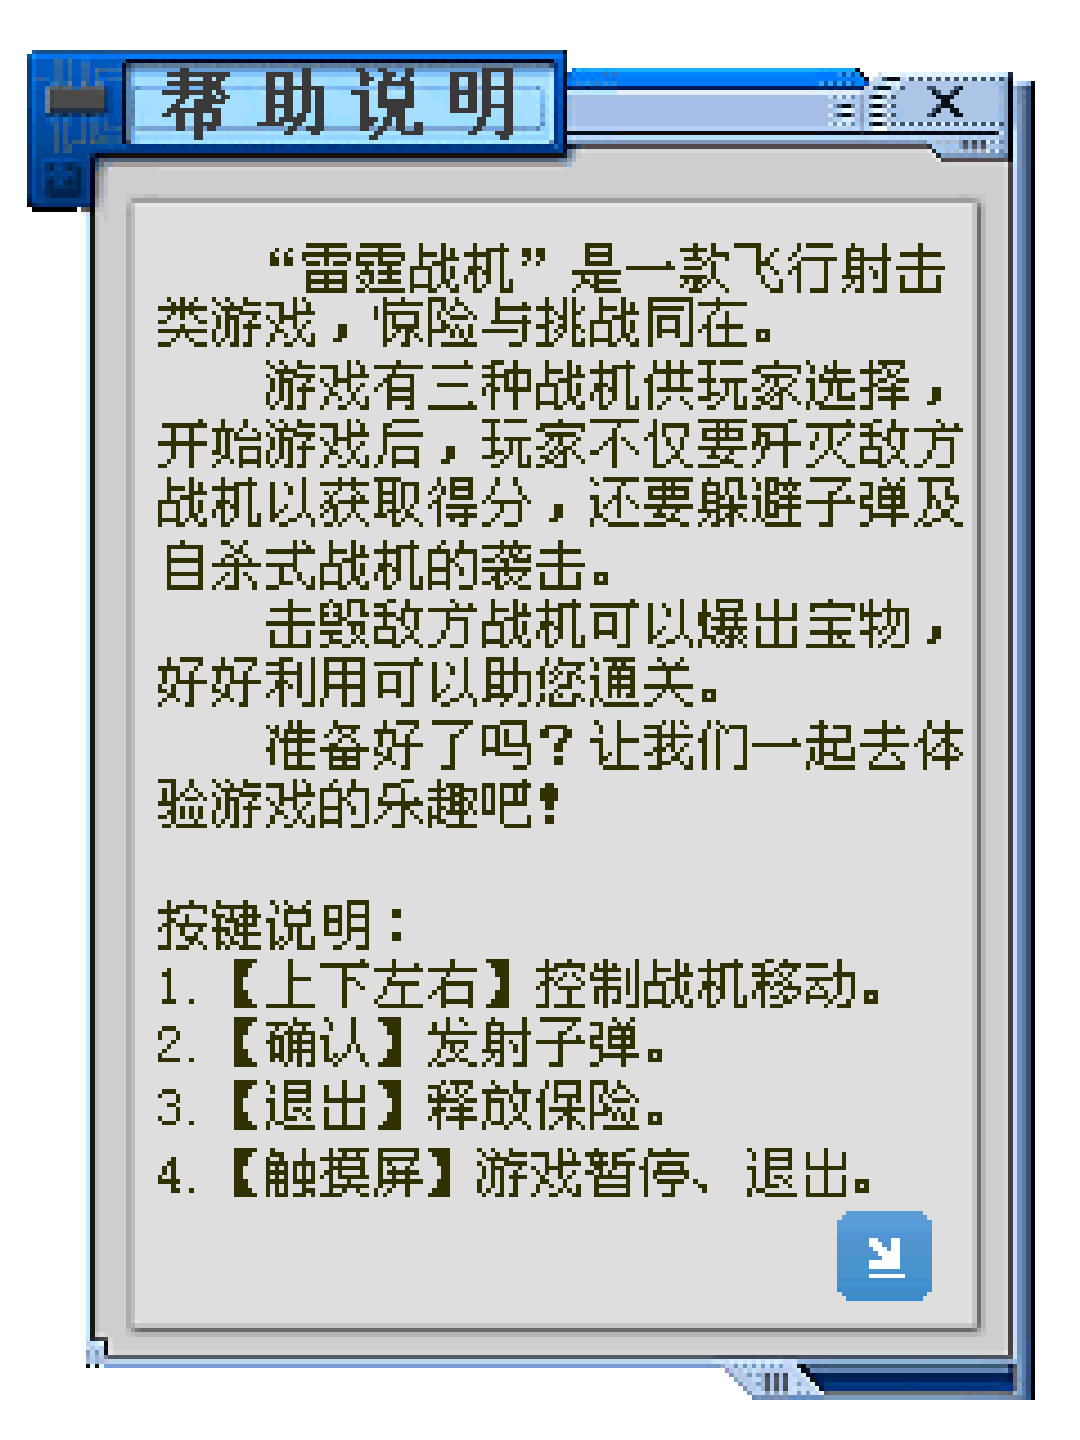
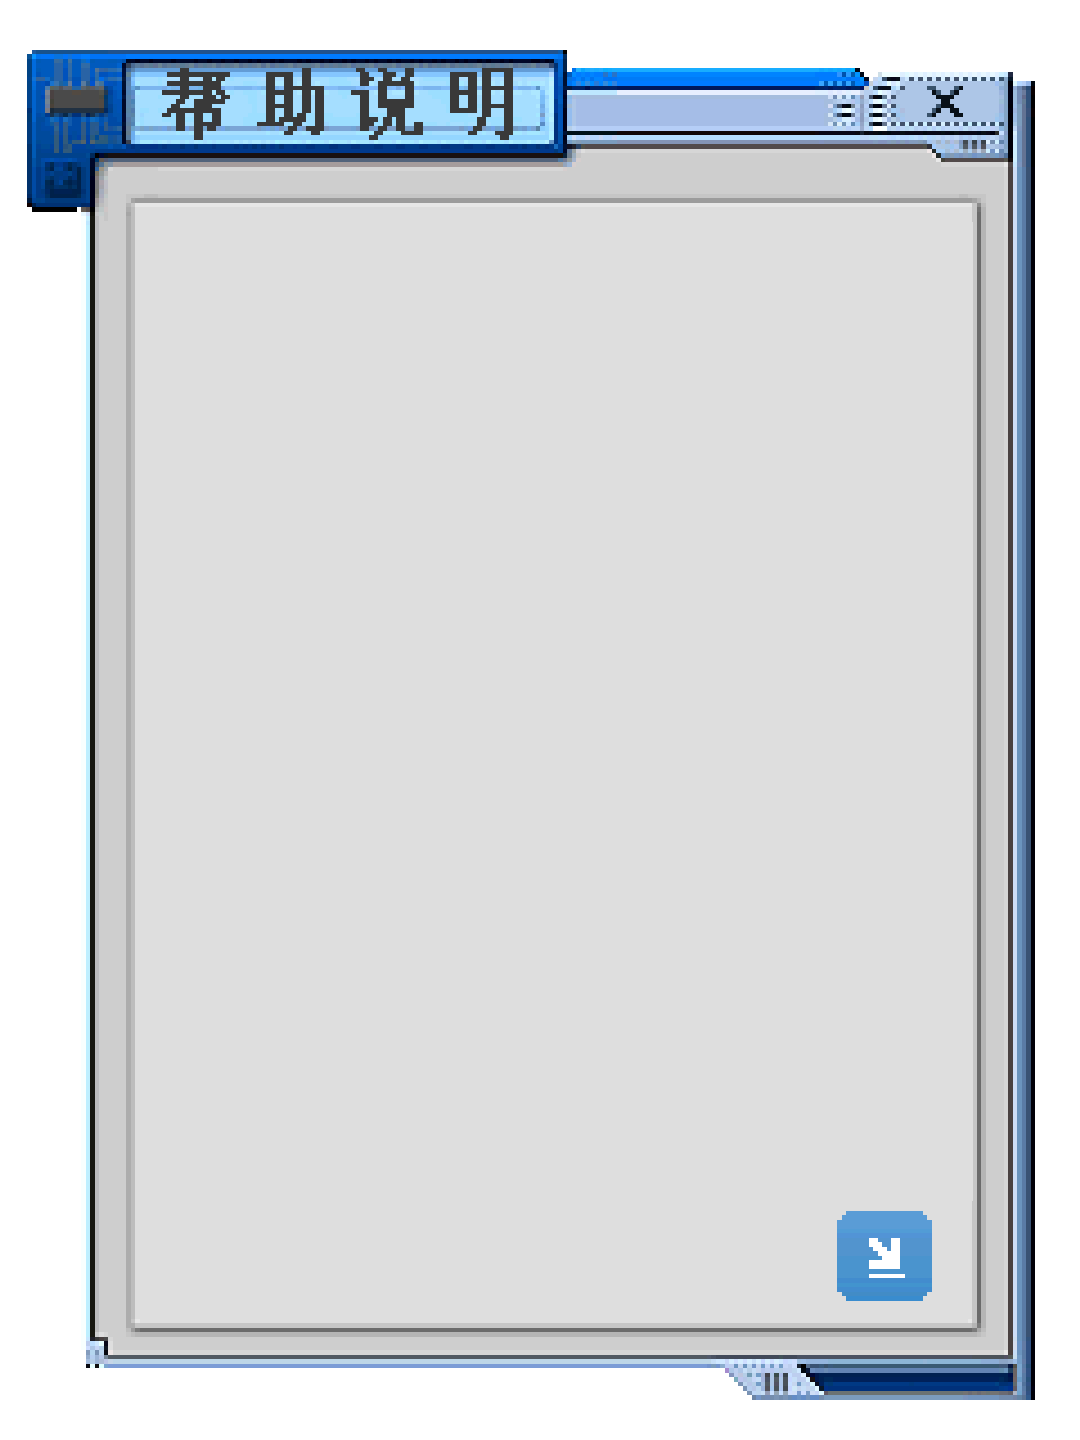
设置样式绘制完成

diff --git a/app/src/main/java/com/flyfighter/menu/ConfigMenu.java b/app/src/main/java/com/flyfighter/menu/ConfigMenu.java
@@ -1,0 +1,137 @@
+package com.flyfighter.menu;
+
+import android.content.Context;
+import android.graphics.Rect;
+import android.util.AttributeSet;
+import android.view.Gravity;
+import android.view.ViewGroup;
+import android.widget.FrameLayout;
+import android.widget.ImageView;
+
+import com.flyfighter.res.RMS;
+import com.flyfighter.res.ResInit;
+import com.flyfighter.view.MainWindow;
+
+public class ConfigMenu extends FrameLayout {
+
+    Context context;
+    private ImageView imgBg;
+    private ImageView ivDifficulty;
+    private ImageView ivSound;
+
+    //以原始图片1080p下的左上角的偏移值
+    private Rect[] clickRect = new Rect[]{
+            //音量小
+            new Rect(530, 195, 720, 300),
+            //音量大
+            new Rect(730, 195, 920, 300),
+            //音效开
+            new Rect(530, 325, 720, 430),
+            //音效开
+            new Rect(730, 325, 920, 430),
+            //音量大小
+            new Rect(590, 490, 885, 530),
+            //关闭
+            new Rect(430, 584, 650, 700),
+    };
+    private int offX;
+    private int offY;
+    private ImageView ivProgress;
+
+    public ConfigMenu(Context context) {
+        this(context, null);
+    }
+
+    public ConfigMenu(Context context, AttributeSet attrs) {
+        this(context, attrs, 0);
+    }
+
+    public ConfigMenu(Context context, AttributeSet attrs, int defStyleAttr) {
+        super(context, attrs, defStyleAttr);
+        init(context);
+    }
+
+    private void init(Context context) {
+        this.context = context;
+        ResInit.initConfigMenu(context);
+        initMenuBg();
+
+        initDifficultySwitch();
+        initSoundSwitch();
+        initSoundProgress();
+    }
+
+    private void initSoundProgress() {
+        LayoutParams lp = new LayoutParams(LayoutParams.WRAP_CONTENT, LayoutParams.WRAP_CONTENT);
+        ivProgress = new ImageView(context);
+        ivProgress.setScaleType(ImageView.ScaleType.FIT_XY);
+        ivProgress.setImageBitmap(ResInit.configImage[2]);
+        addView(ivProgress, lp);
+    }
+
+    private void initSoundSwitch() {
+        LayoutParams lp = new LayoutParams(LayoutParams.WRAP_CONTENT, LayoutParams.WRAP_CONTENT);
+        ivSound = new ImageView(context);
+        ivSound.setImageBitmap(ResInit.configImage[1]);
+        addView(ivSound, lp);
+    }
+
+    private void initDifficultySwitch() {
+        LayoutParams lp = new LayoutParams(LayoutParams.WRAP_CONTENT, LayoutParams.WRAP_CONTENT);
+        ivDifficulty = new ImageView(context);
+        ivDifficulty.setImageBitmap(ResInit.configImage[1]);
+        addView(ivDifficulty, lp);
+    }
+
+    private void initMenuBg() {
+        LayoutParams lp = new LayoutParams(LayoutParams.WRAP_CONTENT, LayoutParams.WRAP_CONTENT);
+        lp.gravity = Gravity.CENTER;
+        imgBg = new ImageView(context);
+        imgBg.setImageBitmap(ResInit.configImage[0]);
+        addView(imgBg, lp);
+    }
+
+
+    @Override
+    protected void onMeasure(int widthMeasureSpec, int heightMeasureSpec) {
+
+        imgBg.measure(MeasureSpec.UNSPECIFIED, MeasureSpec.UNSPECIFIED);
+        offX = (MainWindow.windowWidth - imgBg.getMeasuredWidth()) / 2;
+        offY = (MainWindow.windowHeight - imgBg.getMeasuredHeight()) / 2;
+
+        Rect rect = RMS.difficulty == 1 ? clickRect[1] : clickRect[0];
+        ivDifficulty.setLayoutParams(setPosition(rect, ivDifficulty.getLayoutParams()));
+
+        Rect rect1 = RMS.loadSound ? clickRect[2] : clickRect[3];
+        ivSound.setLayoutParams(setPosition(rect1, ivSound.getLayoutParams()));
+
+        ivProgress.setLayoutParams(setProgress(clickRect[4], ivProgress));
+        super.onMeasure(widthMeasureSpec, heightMeasureSpec);
+    }
+
+    private ViewGroup.LayoutParams setProgress(Rect rect, ImageView iv) {
+        FrameLayout.LayoutParams lp = (LayoutParams) iv.getLayoutParams();
+        rect = scaleRect(rect);
+        lp.setMargins(rect.left, rect.top, 0, 0);
+        lp.width = rect.width();
+        lp.height = rect.height();
+        return lp;
+    }
+
+
+    int padding = 15;
+
+    private ViewGroup.LayoutParams setPosition(Rect rect, ViewGroup.LayoutParams layoutParams) {
+        FrameLayout.LayoutParams lp = (LayoutParams) layoutParams;
+        rect = scaleRect(rect);
+        lp.setMargins(rect.left + padding, rect.top + padding, 0, 0);
+        return lp;
+    }
+
+    private Rect scaleRect(Rect rect) {
+        rect.left += offX;
+        rect.top += offY;
+        return rect;
+    }
+
+}

diff --git a/app/src/main/java/com/flyfighter/menu/HelpMenu.java b/app/src/main/java/com/flyfighter/menu/HelpMenu.java
@@ -1,0 +1,53 @@
+package com.flyfighter.menu;
+
+import android.content.Context;
+import android.util.AttributeSet;
+import android.view.Gravity;
+import android.widget.FrameLayout;
+import android.widget.ImageView;
+
+import com.flyfighter.res.ResInit;
+import com.flyfighter.view.MainWindow;
+
+public class HelpMenu extends FrameLayout {
+
+    Context context;
+    private ImageView imageView;
+    private int helpIndex;
+
+    public HelpMenu(Context context) {
+        this(context, null);
+    }
+
+    public HelpMenu(Context context, AttributeSet attrs) {
+        this(context, attrs, 0);
+    }
+
+    public HelpMenu(Context context, AttributeSet attrs, int defStyleAttr) {
+        super(context, attrs, defStyleAttr);
+        init(context);
+    }
+
+    private void init(Context context) {
+        this.context = context;
+        ResInit.initHelpMenu(context);
+        initMenuItem();
+    }
+
+    private void initMenuItem() {
+        LayoutParams lp = new LayoutParams(LayoutParams.WRAP_CONTENT, LayoutParams.WRAP_CONTENT);
+        lp.gravity = Gravity.CENTER;
+        imageView = new ImageView(context);
+        imageView.setImageBitmap(ResInit.helpImage[0]);
+        addView(imageView, lp);
+
+        imageView.setOnClickListener(v -> {
+            helpIndex++;
+            if (helpIndex < 3) {
+                imageView.setImageBitmap(ResInit.helpImage[helpIndex]);
+            } else {
+                ((MainWindow) getParent()).removeView(ConfigMenu.class);
+            }
+        });
+    }
+}

diff --git a/app/src/main/java/com/flyfighter/res/ResInit.java b/app/src/main/java/com/flyfighter/res/ResInit.java
@@ -307,4 +307,34 @@ public class ResInit {
             e.printStackTrace();
         }
     }
+
+    public static void initHelpMenu(Context context) {
+        helpImage = new Bitmap[3];
+        try {
+            for (int i = 0; i < 3; i++) {
+                helpImage[i] = loadRes(context, "Help/fly_help" + (i + 1) + ".png");
+            }
+        } catch (Exception var5) {
+            var5.printStackTrace();
+        }
+    }
+
+    public static void initConfigMenu(Context context) {
+        configImage = new Bitmap[4];
+        try {
+            for (int i = 0; i < 4; i++) {
+                configImage[i] = loadRes(context, "Config/fly_config" + (i + 1) + ".png");
+            }
+        } catch (Exception var7) {
+            var7.printStackTrace();
+        }
+        configNumImage = new Bitmap[4];
+        try {
+            for (int i = 0; i < 4; i++) {
+                configNumImage[i] = loadRes(context, "Config/fly_number" + i + ".png");
+            }
+        } catch (Exception var6) {
+            var6.printStackTrace();
+        }
+    }
 }

diff --git a/app/src/main/java/com/flyfighter/view/MainWindow.java b/app/src/main/java/com/flyfighter/view/MainWindow.java
@@ -10,7 +10,9 @@ import android.view.Gravity;
 import android.view.WindowManager;
 import android.widget.FrameLayout;
 
+import com.flyfighter.menu.ConfigMenu;
 import com.flyfighter.menu.GameWindow;
+import com.flyfighter.menu.HelpMenu;
 import com.flyfighter.menu.MainMenu;
 import com.flyfighter.menu.MainMenuBackground;
 import com.flyfighter.menu.RankingMenu;
@@ -68,11 +70,13 @@ public class MainWindow extends FrameLayout {
                 addView(new SelectPlayerMenu(mContext), buildCenterLayoutParams());
                 break;
             case 1://游戏设置
+                addView(new ConfigMenu(mContext), buildCenterLayoutParams());
                 break;
             case 2://战绩排行
                 showRanking();
                 break;
             case 3://游戏说明
+                addView(new HelpMenu(mContext), buildCenterLayoutParams());
                 break;
             case 4://退出游戏
                 ((Activity) mContext).finish();

diff --git a/app/src/main/java/com/flyfighter/res/RMS.java b/app/src/main/java/com/flyfighter/res/RMS.java
@@ -12,7 +12,7 @@ public class RMS {
     public static int[] gConfigData = new int[3];
     public static boolean loadSound;
     public static float volume;
-    public static int difficulty;
+    public static int difficulty;//0:简单,1:困难
     public static byte lastScoreIndex;
     public static List<PlayRecord> playRecords = new ArrayList<>();
     private static int aint;

diff --git a/app/src/main/java/com/flyfighter/utils/UiUtils.java b/app/src/main/java/com/flyfighter/utils/UiUtils.java
@@ -13,4 +13,6 @@ public class UiUtils {
         float v = context.getResources().getDisplayMetrics().scaledDensity;
         return (int) (v * dp + 0.5f);
     }
+
+
 }
